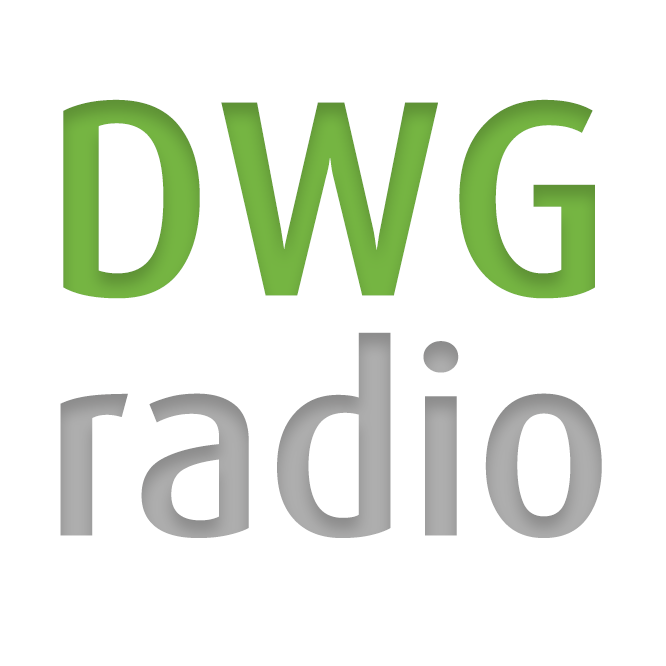
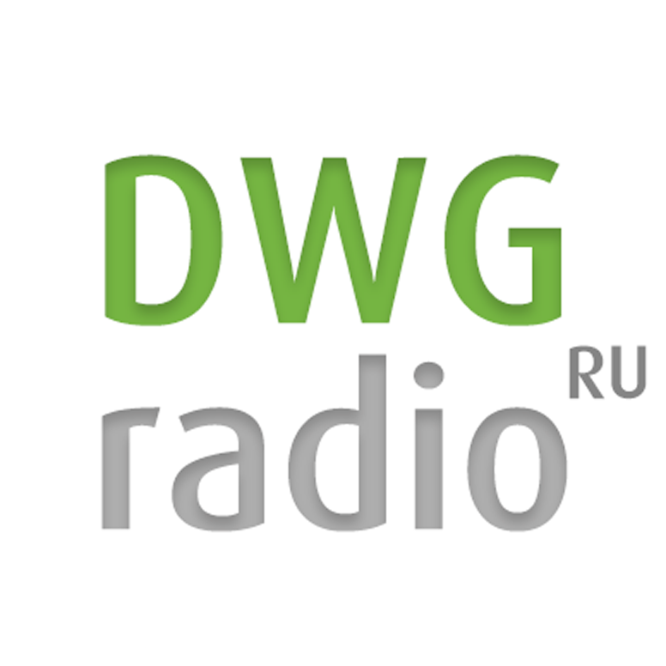
Add RU config and assets

Changed region(s): [[0.0901, 0.1502, 0.991, 0.8108], [0.6607, 0.1502, 0.9009, 0.5105]]

diff --git a/src/stores/rootStore.ts b/src/stores/rootStore.ts
@@ -8,7 +8,7 @@ import InfoMenuStore from './infoMenuStore';
 import ProgramStore from './programStore';
 
 type Language = 'de' | 'cz' | 'ru';
-export const language: Language = 'de';
+export const language: Language = 'ru';
 
 class RootStore {
   infoMenuStore: InfoMenuStore;
